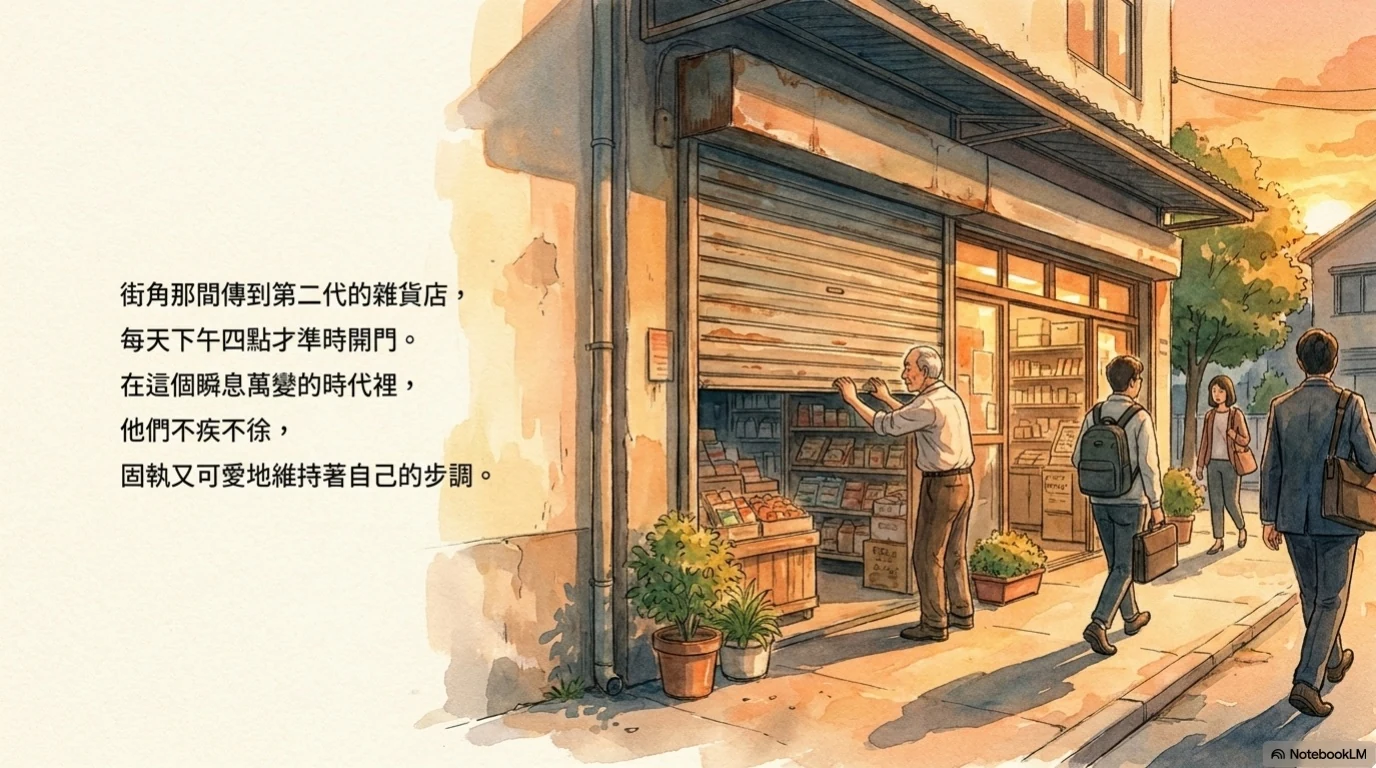
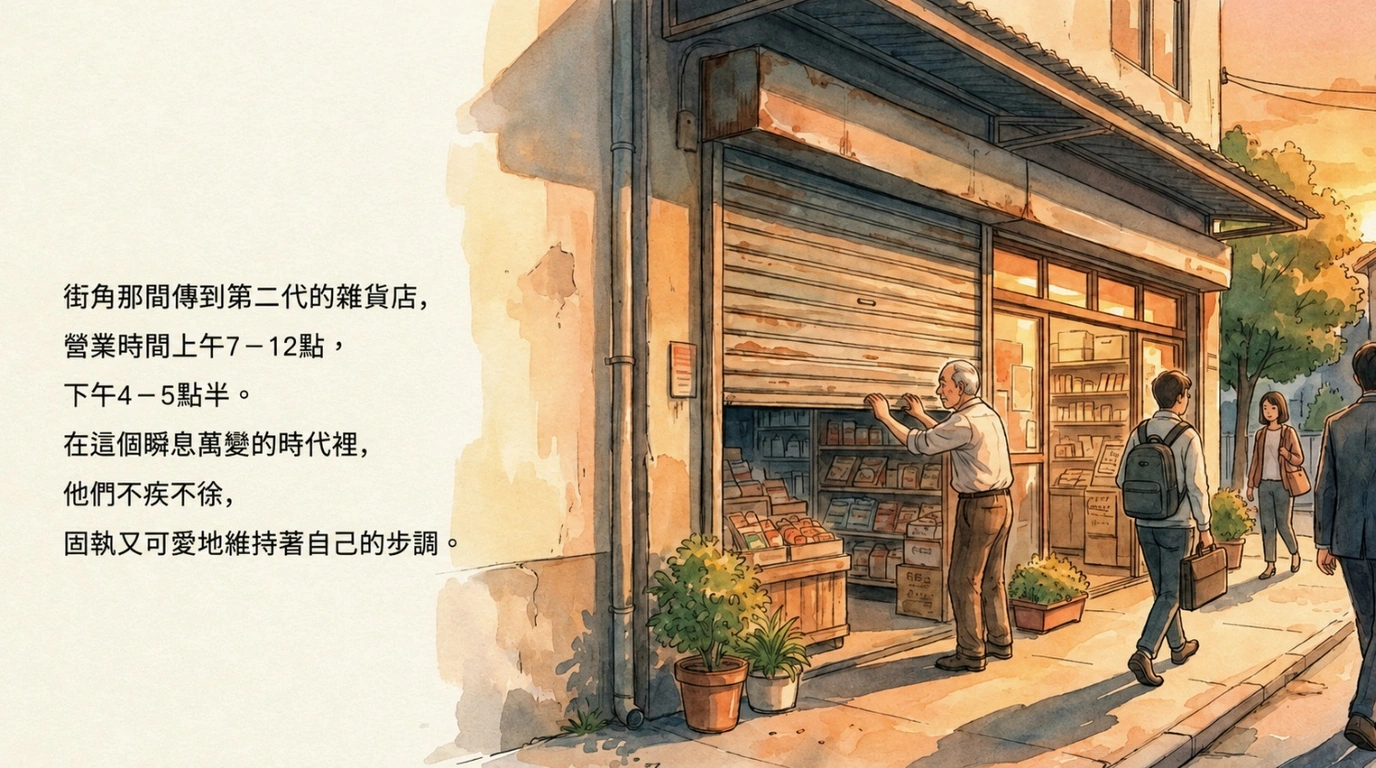
修正195綿綿冰文章與繪本

diff --git a/pages/story-195-icecream.html b/pages/story-195-icecream.html
@@ -81,7 +81,7 @@
             <p><strong>三峽黑豬肉店：</strong> 這家店目前由第二代媳婦經營。我媽對這家的豬肉情有獨鍾，特別是排骨，她覺得別家的排骨就是沒這家好吃，因為三峽的豬肉油脂比例比較剛好。這條街很有趣，很多店最後都是媳婦在堅持經營。</p>
             <p><strong>已結束經營的「萬元種子店」：</strong> 這間店以前在我家與文具店中間。最早是賣魚跟賣肉的合租，後來變成賣種子和已經種好的菜苗。這家店由第二代的女兒接手後，因為每天要去載貨太辛苦，加上子女都還在讀書沒辦法幫忙，經營兩年多後就收起來了。</p>
             <p><strong>阿嬤顧的「明光文具行」：</strong> 這位阿嬤頭腦非常清楚，什麼事情都記得。我們常去那裡買收據或雜項，阿嬤都會很熱心地招呼。</p>
-            <p><strong>下午4點才開門的老雜貨店：</strong> 這也是一間很有個性的老店，目前也是傳到第二代，每天下午四點準時開門，維持著自己的步調，專賣給下班的人潮。</p>
+            <p><strong>下午4點才開門的老雜貨店：</strong> 這也是一間很有個性的老店「𥴊仔店」，目前也是傳到第二代，早上7點開店，中午12點休息，下午4點再開到5點半，維持著自己的步調。</p>
 
             <h3 style="border-left: 4px solid var(--river); padding-left: 12px; margin-top: 40px; margin-bottom: 20px;">四、 碧潭獨有的「木船泡茶」文化</h3>
             <p><strong>浩痴居：</strong> 妳之前提到過「大船泡茶」（遮棚茶船），這在當時是很有名的活動嗎？</p>
@@ -141,7 +141,7 @@
             <h4 style="margin-top: 40px; color: var(--river-dark); font-weight: bold; border-bottom: 2px solid rgba(47,89,80,0.15); padding-bottom: 8px;">採訪後特記3：</h4>
             <p>根據來源內容，這間雜貨店位於新店路（新店舊街），是當地少數依舊留存下來的老字號店鋪。關於這間店的特別故事與背景如下：</p>
             <p><strong>家族傳承的老店：</strong>這是一間名副其實的「老的老店」，目前已經傳承到了第二代在經營。</p>
-            <p><strong>獨特的經營步調：</strong>該店最特別的地方在於其營業時間，每天固定要到下午 4 點才會開門。</p>
+            <p><strong>獨特的經營步調：</strong>該店最特別的地方在於其營業時間，早上7點開店，中午12點休息，下午4點再開到5點半。</p>
             <p><strong>老街變遷的見證：</strong>在張小姐的描述中，新店路（舊街）許多昔日的老店（例如萬元種子店、賣魚賣肉的攤位）都已經因為後繼無人或經營辛苦而陸續結束營業，而這間雜貨店與張小姐家的冰店一樣，是少數撐過時間洪流、至今仍有開門營業的老店。訪談中雖然張小姐輕輕點出為何固定下午 4 點才開門，但這間店在她眼中，是這條老街上具代表性且少數「還有東西可看」的老店之一。</p>
 
             <h4 style="margin-top: 40px; color: var(--river-dark); font-weight: bold; border-bottom: 2px solid rgba(47,89,80,0.15); padding-bottom: 8px;">採訪後特記4：</h4>
